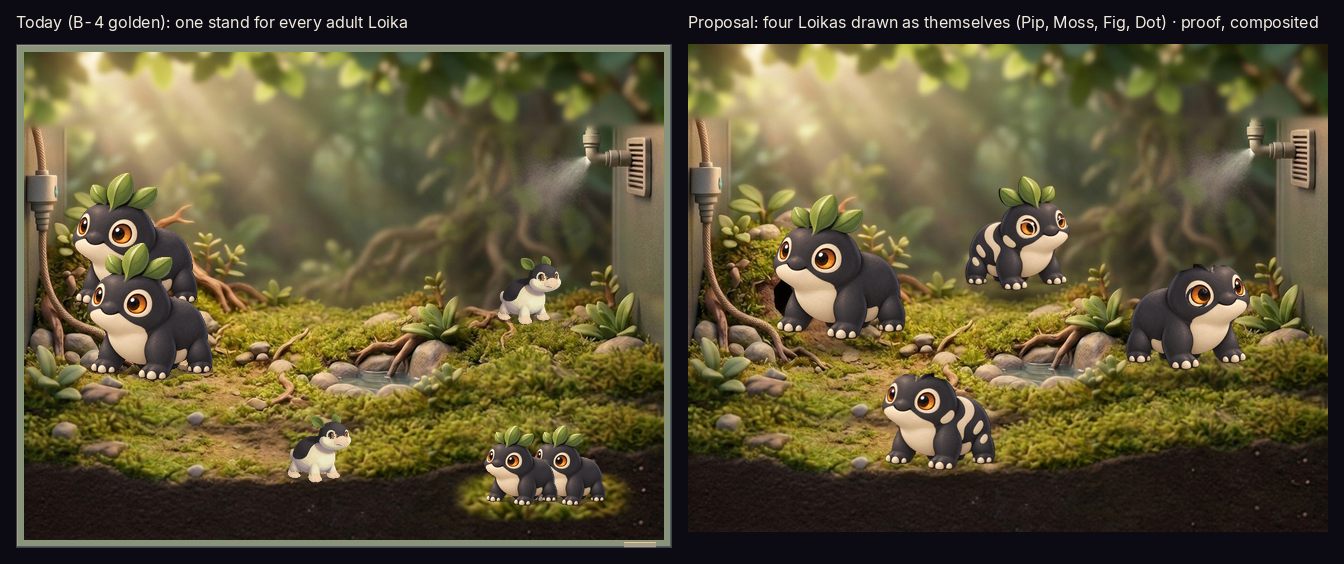
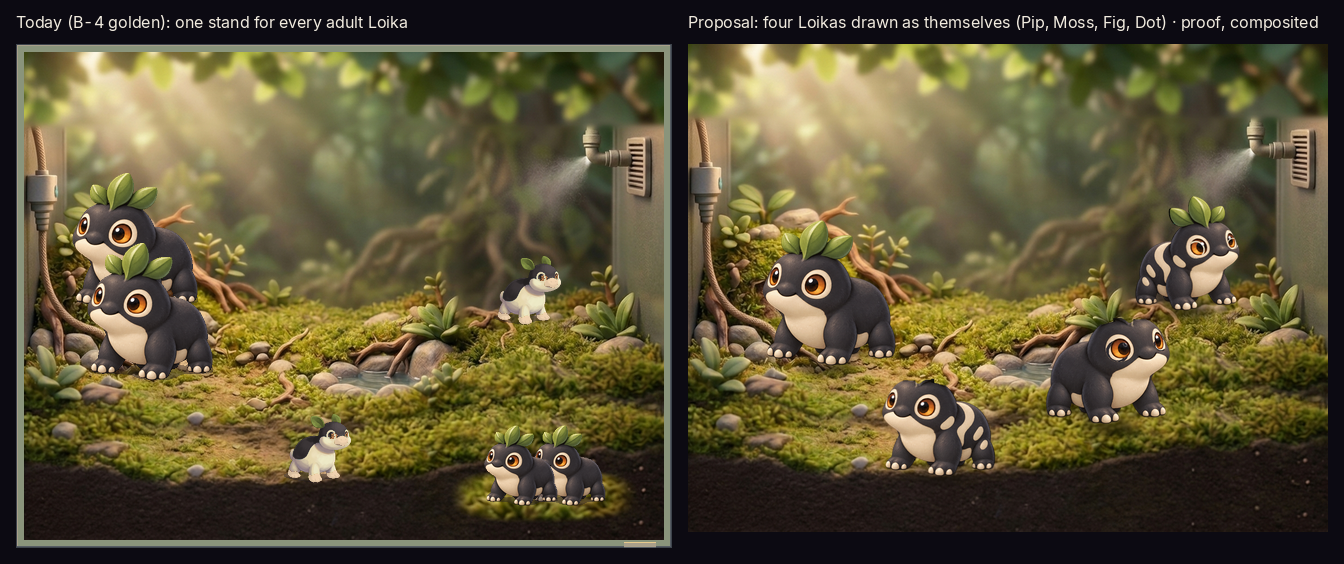
T-20261016-190: the four Loikas stand on the window's ground, with contact shadows

diff --git a/results/T-20261016-190/make-stands.py b/results/T-20261016-190/make-stands.py
@@ -147,7 +147,7 @@ print('S01-four-stands.png')
 # 2) Home's living window: today's golden beside the four as themselves
 glass = src('home-glass-day-640x488.png')
 win = glass.copy()
-spots = [(150, 300, 150), (330, 250, 118), (500, 330, 140), (250, 430, 128)]
+spots = [(140, 326, 150), (500, 270, 118), (420, 384, 140), (250, 436, 128)]  # feet on the window's own ground (the golden's stand rows)
 order = sorted(range(4), key=lambda i: spots[i][1])
 for i in order:
     n, img, *_ = stands[i]
@@ -155,7 +155,8 @@ for i in order:
     s = sc(img, h)
     if i in (1, 2):                      # residents face their own ways (routines, not genetics)
         s = s.transpose(Image.FLIP_LEFT_RIGHT)
-    win.alpha_composite(contact(int(s.width * 0.8), 14, 0.55), (x - int(s.width * 0.8), y - 10))
+    cw = int(s.width * 0.42)              # a contact shadow under the feet, on the moss
+    win.alpha_composite(contact(cw, 12, 0.62), (x - cw, y - 14))
     win.alpha_composite(s, (x - s.width // 2, y - s.height))
 today = src('home-docked.png').crop((16, 48, 672, 552))
 out = Image.new('RGBA', (656 + 16 + 640 + 32, 520 + 44), (12, 10, 18, 255)); d = ImageDraw.Draw(out)
